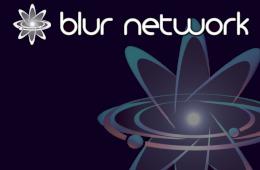
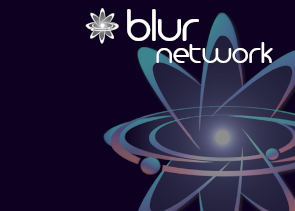
Make left panel card flush with panel
- Also move around some things in the image itself

Changed region(s): [[0.0308, 0.0294, 1.0, 1.0]]

diff --git a/LeftPanel.qml b/LeftPanel.qml
@@ -114,7 +114,7 @@ Rectangle {
                 width: 259 * scaleRatio
 
                 Image {
-                    width: 259; height: 170
+                    width: 294; height: 211
                     fillMode: Image.PreserveAspectFit
                     source: "images/card-background.png"
                 }
